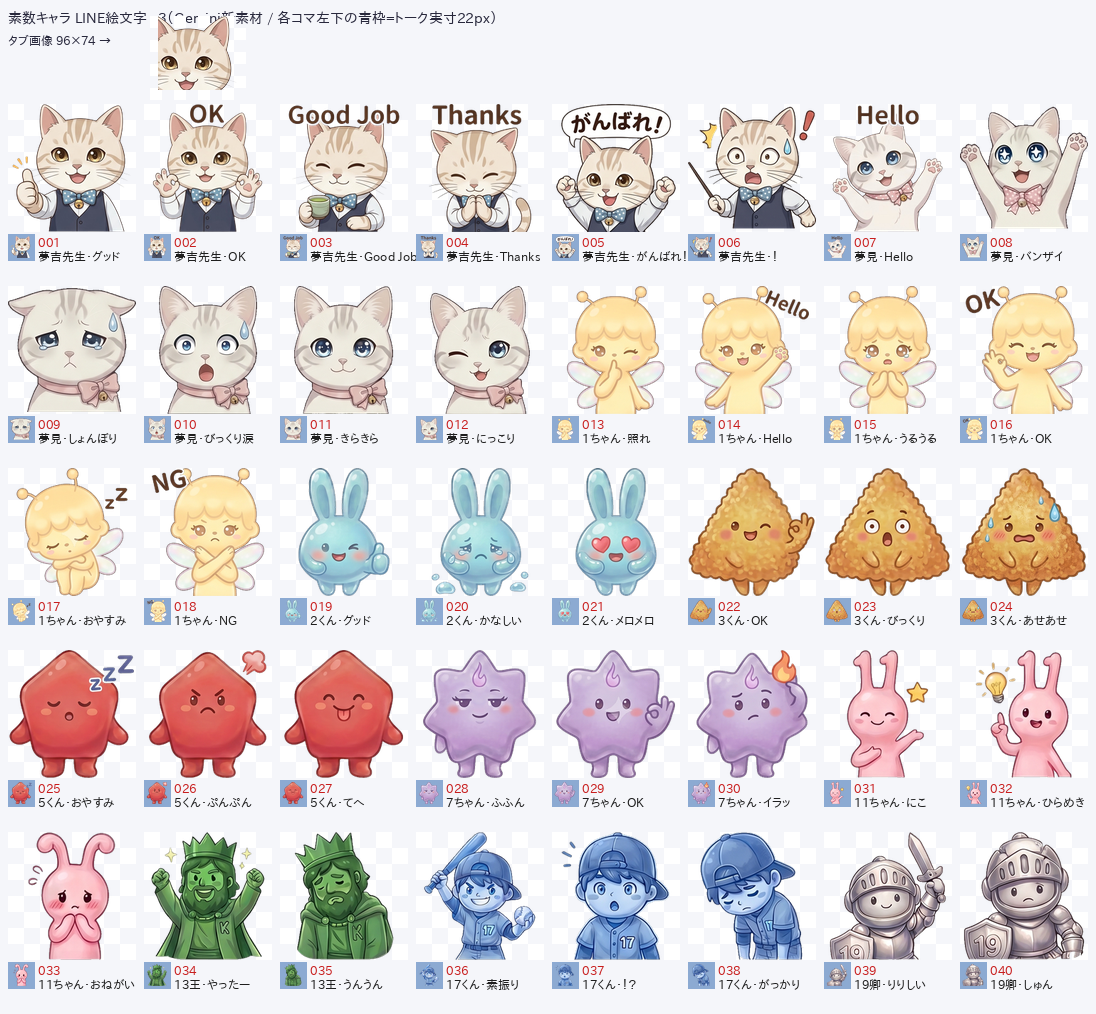
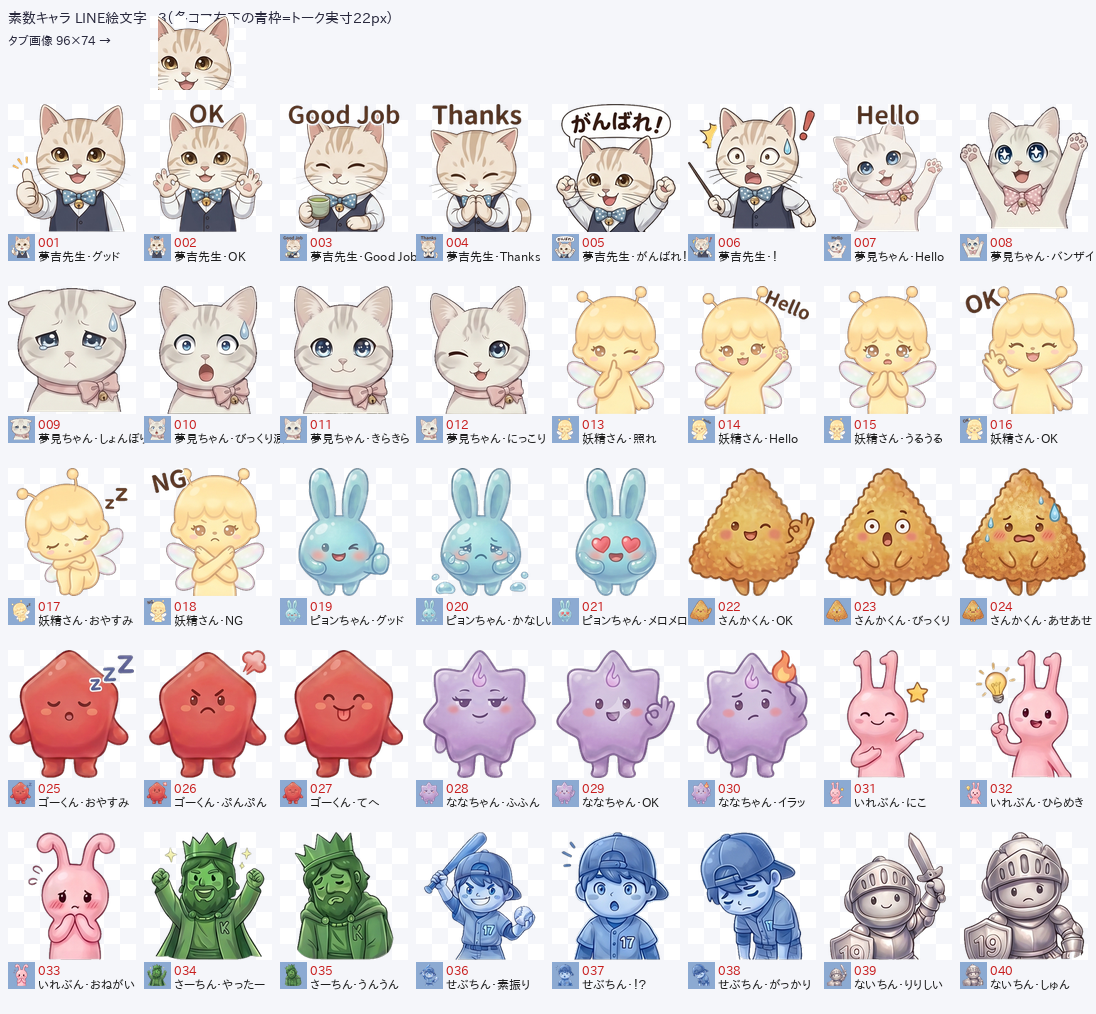
docs: キャラクター名を公式名称に統一（妖精さん・ピョンちゃん・さんかくん等）
Claude-Session: https://claude.ai/code/session_01131GWVnjQSJSuZqT46zaHq

diff --git a/line-emoji/README.md b/line-emoji/README.md
@@ -14,19 +14,21 @@ v3はGeminiで絵文字用に描き起こした新素材（バストアップ＋
 
 ## セット構成（001〜040）
 
+キャラクター名は公式のキャラクター紹介に準拠。
+
 | 番号 | キャラ | リアクション |
 |---|---|---|
 | 001–006 | 夢吉先生 | グッド / OK / Good Job / Thanks / がんばれ！ / ！ |
-| 007–012 | 夢見 | Hello / バンザイ / しょんぼり / びっくり涙 / きらきら / にっこり |
-| 013–018 | 1ちゃん（妖精） | 照れ / Hello / うるうる / OK / おやすみ / NG |
-| 019–021 | 2くん（うさぎ） | グッド / かなしい / メロメロ |
-| 022–024 | 3くん（三角） | OK / びっくり / あせあせ |
-| 025–027 | 5くん（五角形） | おやすみ / ぷんぷん / てへ |
-| 028–030 | 7ちゃん（星） | ふふん / OK / イラッ |
-| 031–033 | 11ちゃん（うさぎ） | にこ / ひらめき / おねがい |
-| 034–035 | 13王 | やったー / うんうん |
-| 036–038 | 17くん（野球） | 素振り / ！？ / がっかり |
-| 039–040 | 19卿（騎士） | りりしい / しゅん |
+| 007–012 | 夢見ちゃん | Hello / バンザイ / しょんぼり / びっくり涙 / きらきら / にっこり |
+| 013–018 | 妖精さん（1） | 照れ / Hello / うるうる / OK / おやすみ / NG |
+| 019–021 | ピョンちゃん（2） | グッド / かなしい / メロメロ |
+| 022–024 | さんかくん（3） | OK / びっくり / あせあせ |
+| 025–027 | ゴーくん（5） | おやすみ / ぷんぷん / てへ |
+| 028–030 | ななちゃん（7） | ふふん / OK / イラッ |
+| 031–033 | いれぶん（11） | にこ / ひらめき / おねがい |
+| 034–035 | さーちん（13） | やったー / うんうん |
+| 036–038 | せぶちん（17） | 素振り / ！？ / がっかり |
+| 039–040 | ないちん（19） | りりしい / しゅん |
 
 ## 申請手順（LINE Creators Market）
 
